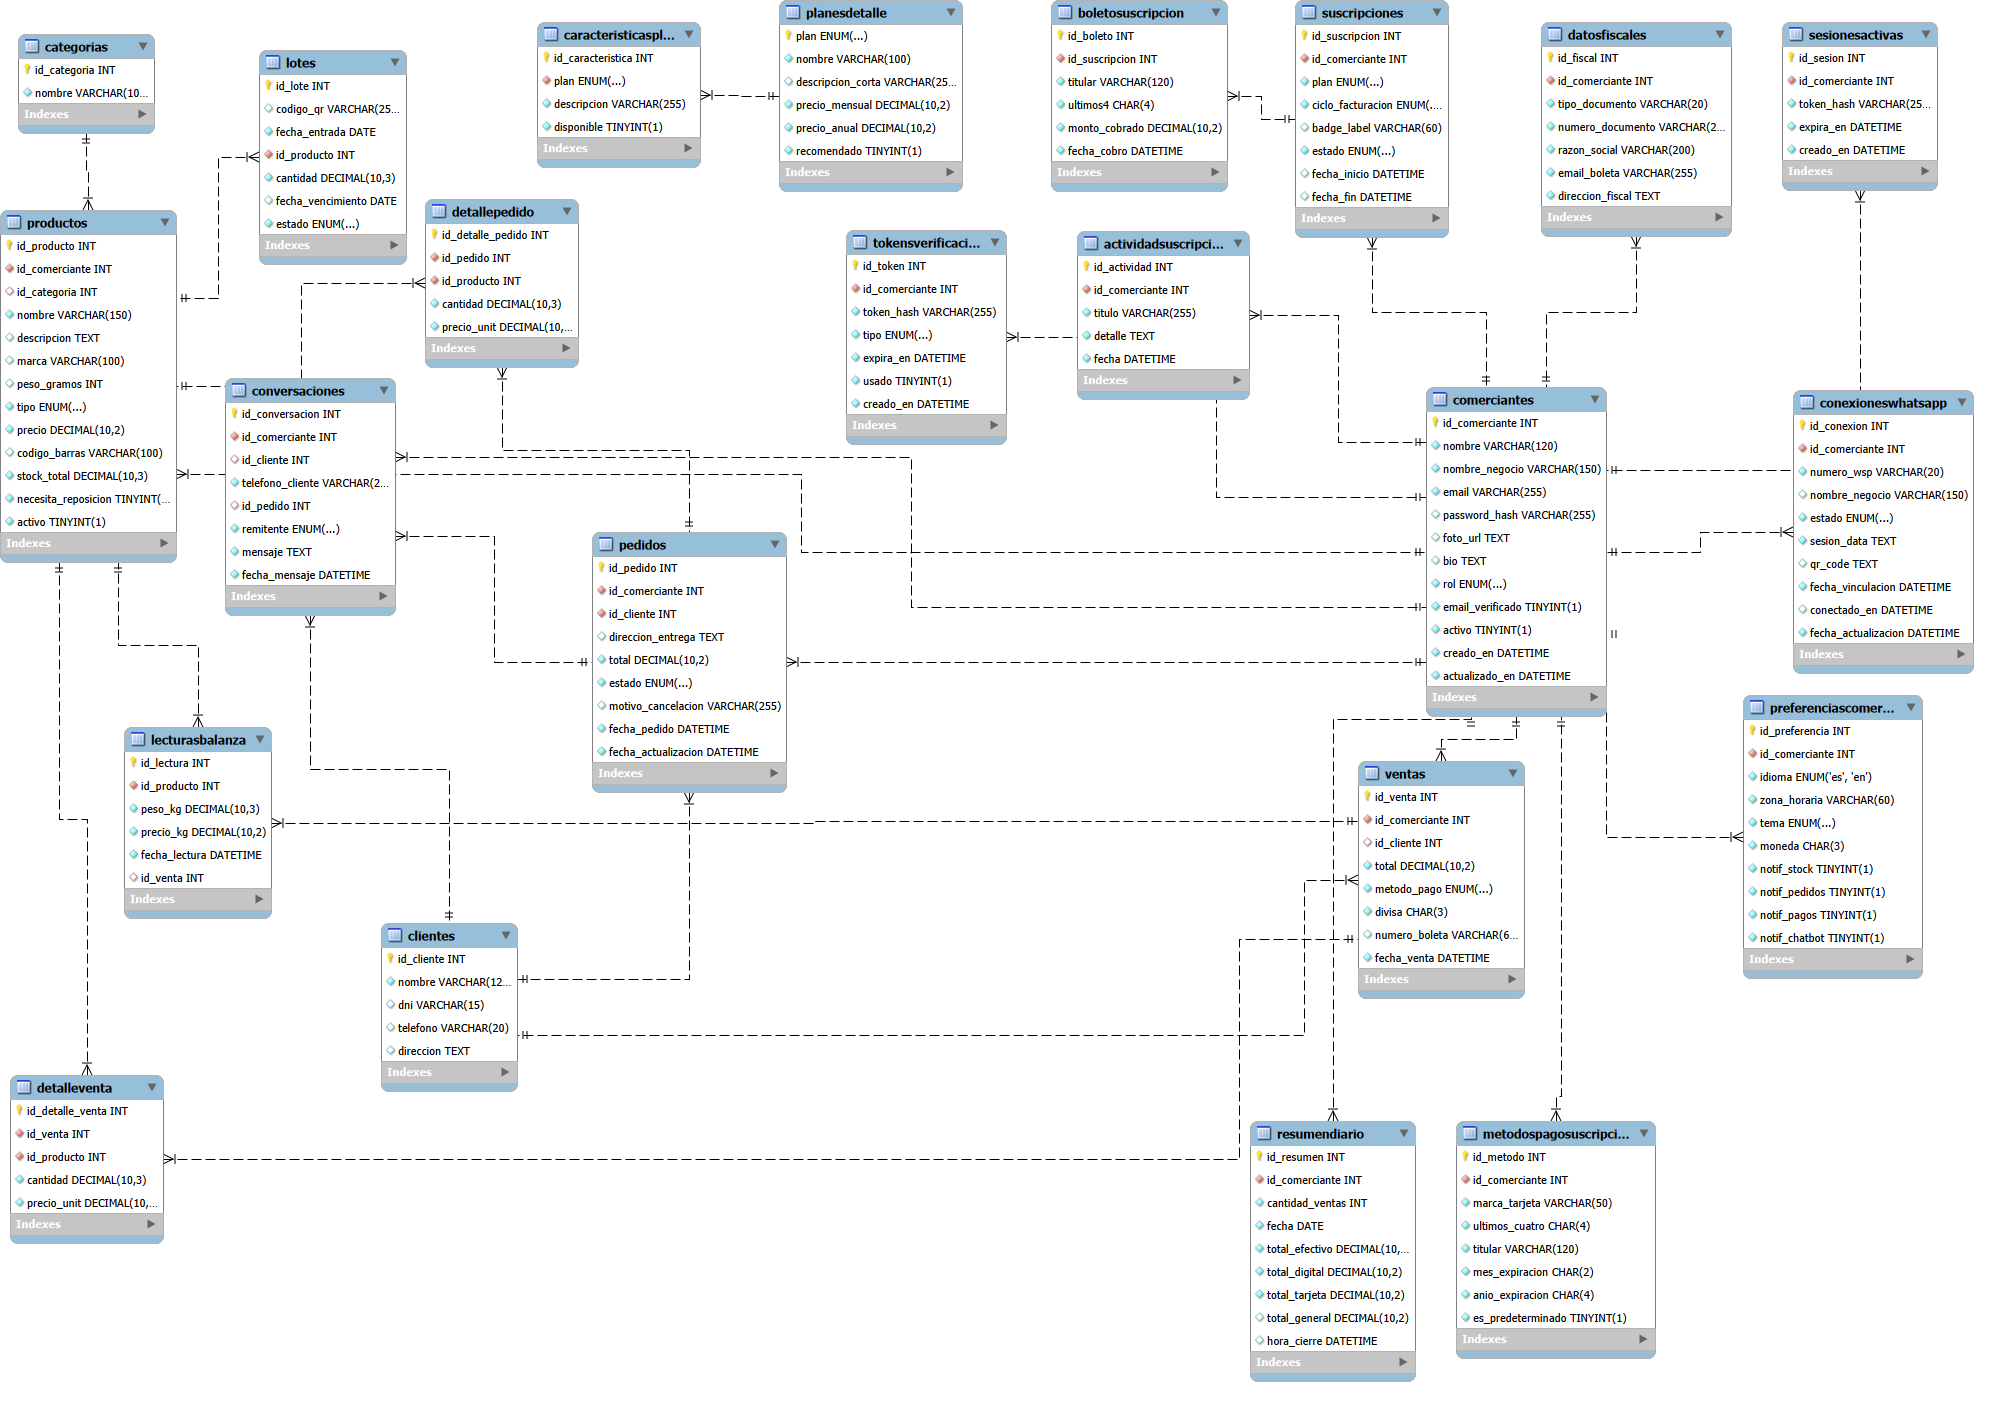
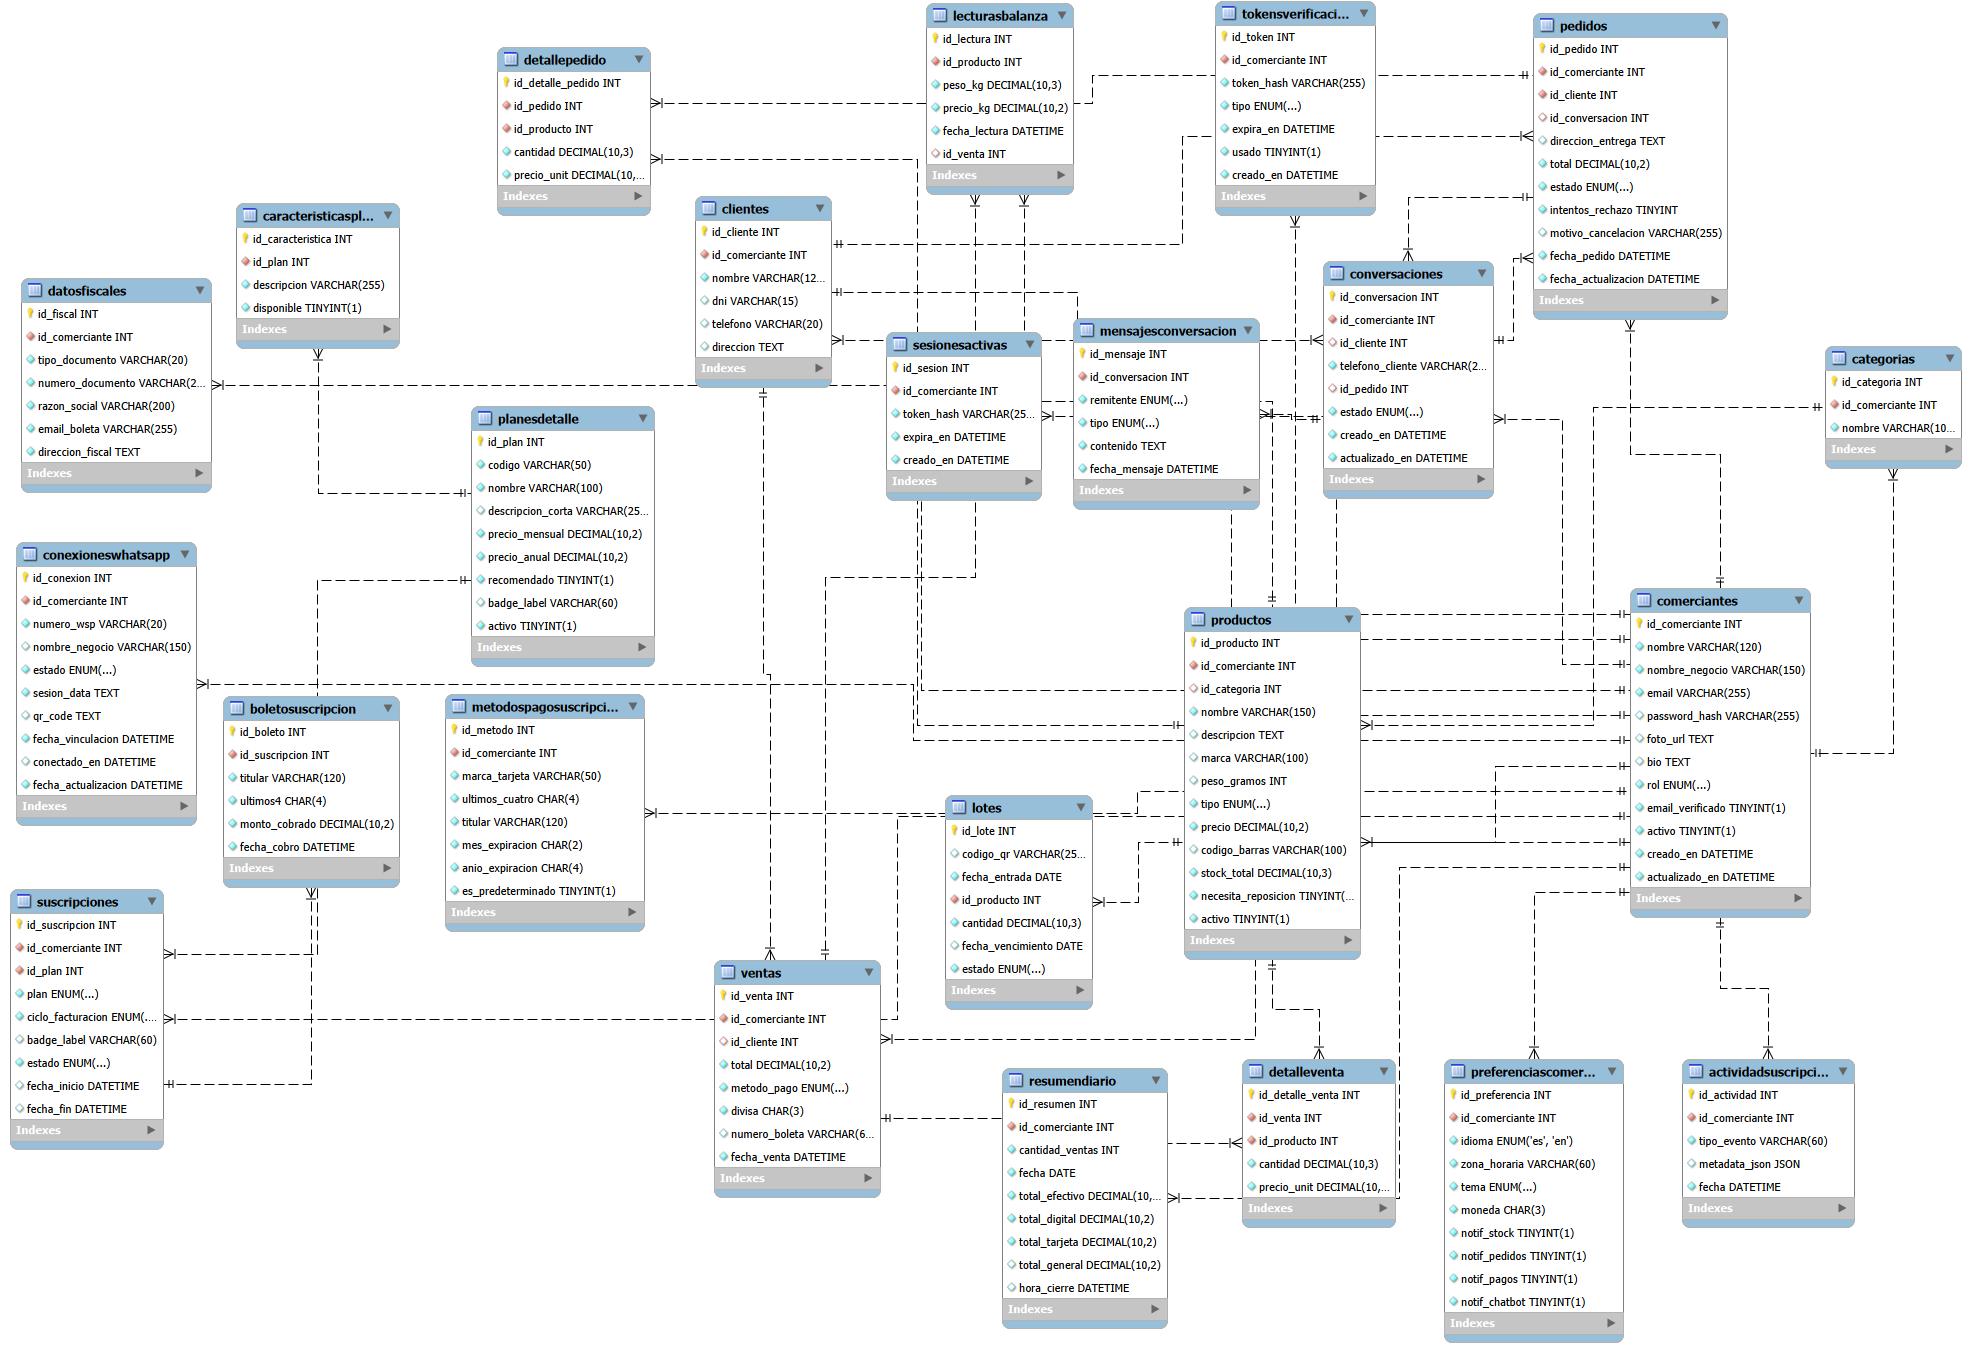
docs: actualizacion de base de datos

diff --git a/docs/capitulo-4.md b/docs/capitulo-4.md
@@ -1479,49 +1479,52 @@ El módulo de suscripciones fue ampliado con un catálogo de planes y funcionali
 ![Database Diagram Entreprenly](images/Entreprendly_database_diagram.png)
 
 </div>
-
 El esquema se organiza en las siguientes tablas por categoría:
+
 **Identidad y Acceso**
 
 - `Comerciantes` (datos de acceso, perfil y roles).
 - `PreferenciasComercio` (idioma, moneda, tema y notificaciones).
 - `SesionesActivas` (JWTs activos para control y revocación de sesiones).
 - `TokensVerificacion` (tokens de verificación y recuperación de contraseña).
-- `Clientes` (datos básicos para pedidos y comprobantes).
+- `Clientes` (datos básicos por comerciante para pedidos y comprobantes).
 
 **Suscripciones**
 
-- `Suscripciones` (plan contratado y ciclo de vida de la suscripción).
+- `PlanesDetalle` (catálogo de planes con precios, badge y estado activo).
+- `CaracteristicasPlan` (funcionalidades habilitadas por plan mediante FK a `PlanesDetalle`).
+- `Suscripciones` (plan contratado, ciclo de facturación y ciclo de vida de la suscripción).
 - `BoletoSuscripcion` (registro de cobros y últimos 4 dígitos de tarjeta).
-- `PlanesDetalle` (catálogo de planes, precios y recomendaciones).
-- `CaracteristicasPlan` (funcionalidades habilitadas por plan).
 - `MetodosPagoSuscripcion` (métodos de pago registrados por el comerciante).
 - `DatosFiscales` (información fiscal asociada al comerciante).
-- `ActividadSuscripcion` (historial de actividad y eventos de suscripción).
+- `ActividadSuscripcion` (historial de eventos con tipo de evento y metadata JSON para i18n).
 
 **Inventario**
 
-- `Categorias` (clasificación normalizada de productos).
+- `Categorias` (clasificación de productos por comerciante).
 - `Productos` (catálogo principal con control de stock y tipo de producto).
-- `Lotes` (trazabilidad, vencimiento y códigos QR de inventario).
+- `Lotes` (trazabilidad, vencimiento, fecha de entrada y códigos QR de inventario).
 
 **Ventas**
 
-- `LecturasBalanza` (pesajes realizados por la balanza inteligente).
+- `LecturasBalanza` (pesajes realizados por la balanza IoT).
 - `Ventas` (encabezado de transacciones presenciales).
-- `DetalleVenta` (detalle de productos vendidos).
-- `ResumenDiario` (arqueo y cierre diario de caja).
+- `DetalleVenta` (detalle de productos vendidos con precio snapshot).
+- `ResumenDiario` (arqueo y cierre diario de caja con conteo de ventas).
 
 **Chatbot WhatsApp**
 
-- `ConexionesWhatsApp` (sesión vinculada mediante QR).
-- `Conversaciones` (historial de mensajes del chatbot y clientes).
+- `ConexionesWhatsApp` (sesión vinculada mediante QR, nombre de negocio y timestamp de conexión).
+- `Conversaciones` (hilo de conversación por cliente con estado y timestamps).
+- `MensajesConversacion` (mensajes individuales dentro del hilo, incluyendo imágenes de comprobante).
 
 **Pedidos**
 
-- `Pedidos` (gestión del flujo de pedidos digitales).
-- `DetallePedido` (detalle de productos solicitados en cada pedido).
+- `Pedidos` (gestión del flujo de pedidos digitales con contador de rechazos y estado bloqueado).
+- `DetallePedido` (detalle de productos solicitados con precio snapshot).
+- `Pagos` (comprobantes de pago digital Yape/Plin con estado de validación).
 
+---
 
 La normalización aplicada se resume en tres puntos principales:
 
@@ -1529,4 +1532,4 @@ La normalización aplicada se resume en tres puntos principales:
 
 - **Segunda Forma Normal (2FN):** se garantiza utilizando claves primarias simples en todas las tablas.
 
-- **Tercera Forma Normal (3FN):** se evidencia en la separación de entidades como `PreferenciasComercio`, `Categorias`, `DatosFiscales` y `CaracteristicasPlan`, eliminando dependencias transitivas y evitando redundancia de información. Asimismo, los valores derivados como subtotales no se almacenan en tablas de detalle, ya que pueden calcularse dinámicamente a partir de `cantidad` y `precio_unit`.
+- **Tercera Forma Normal (3FN):** se evidencia en la separación de entidades como `PreferenciasComercio`, `Categorias`, `DatosFiscales` y `CaracteristicasPlan`, eliminando dependencias transitivas y evitando redundancia de información. Los valores derivados como subtotales no se almacenan en tablas de detalle, ya que pueden calcularse dinámicamente a partir de `cantidad` y `precio_unit`. Los totales almacenados en `Ventas`, `Pedidos` y `ResumenDiario` son snapshots contables para auditoría e historial, no datos normalizados puros.
